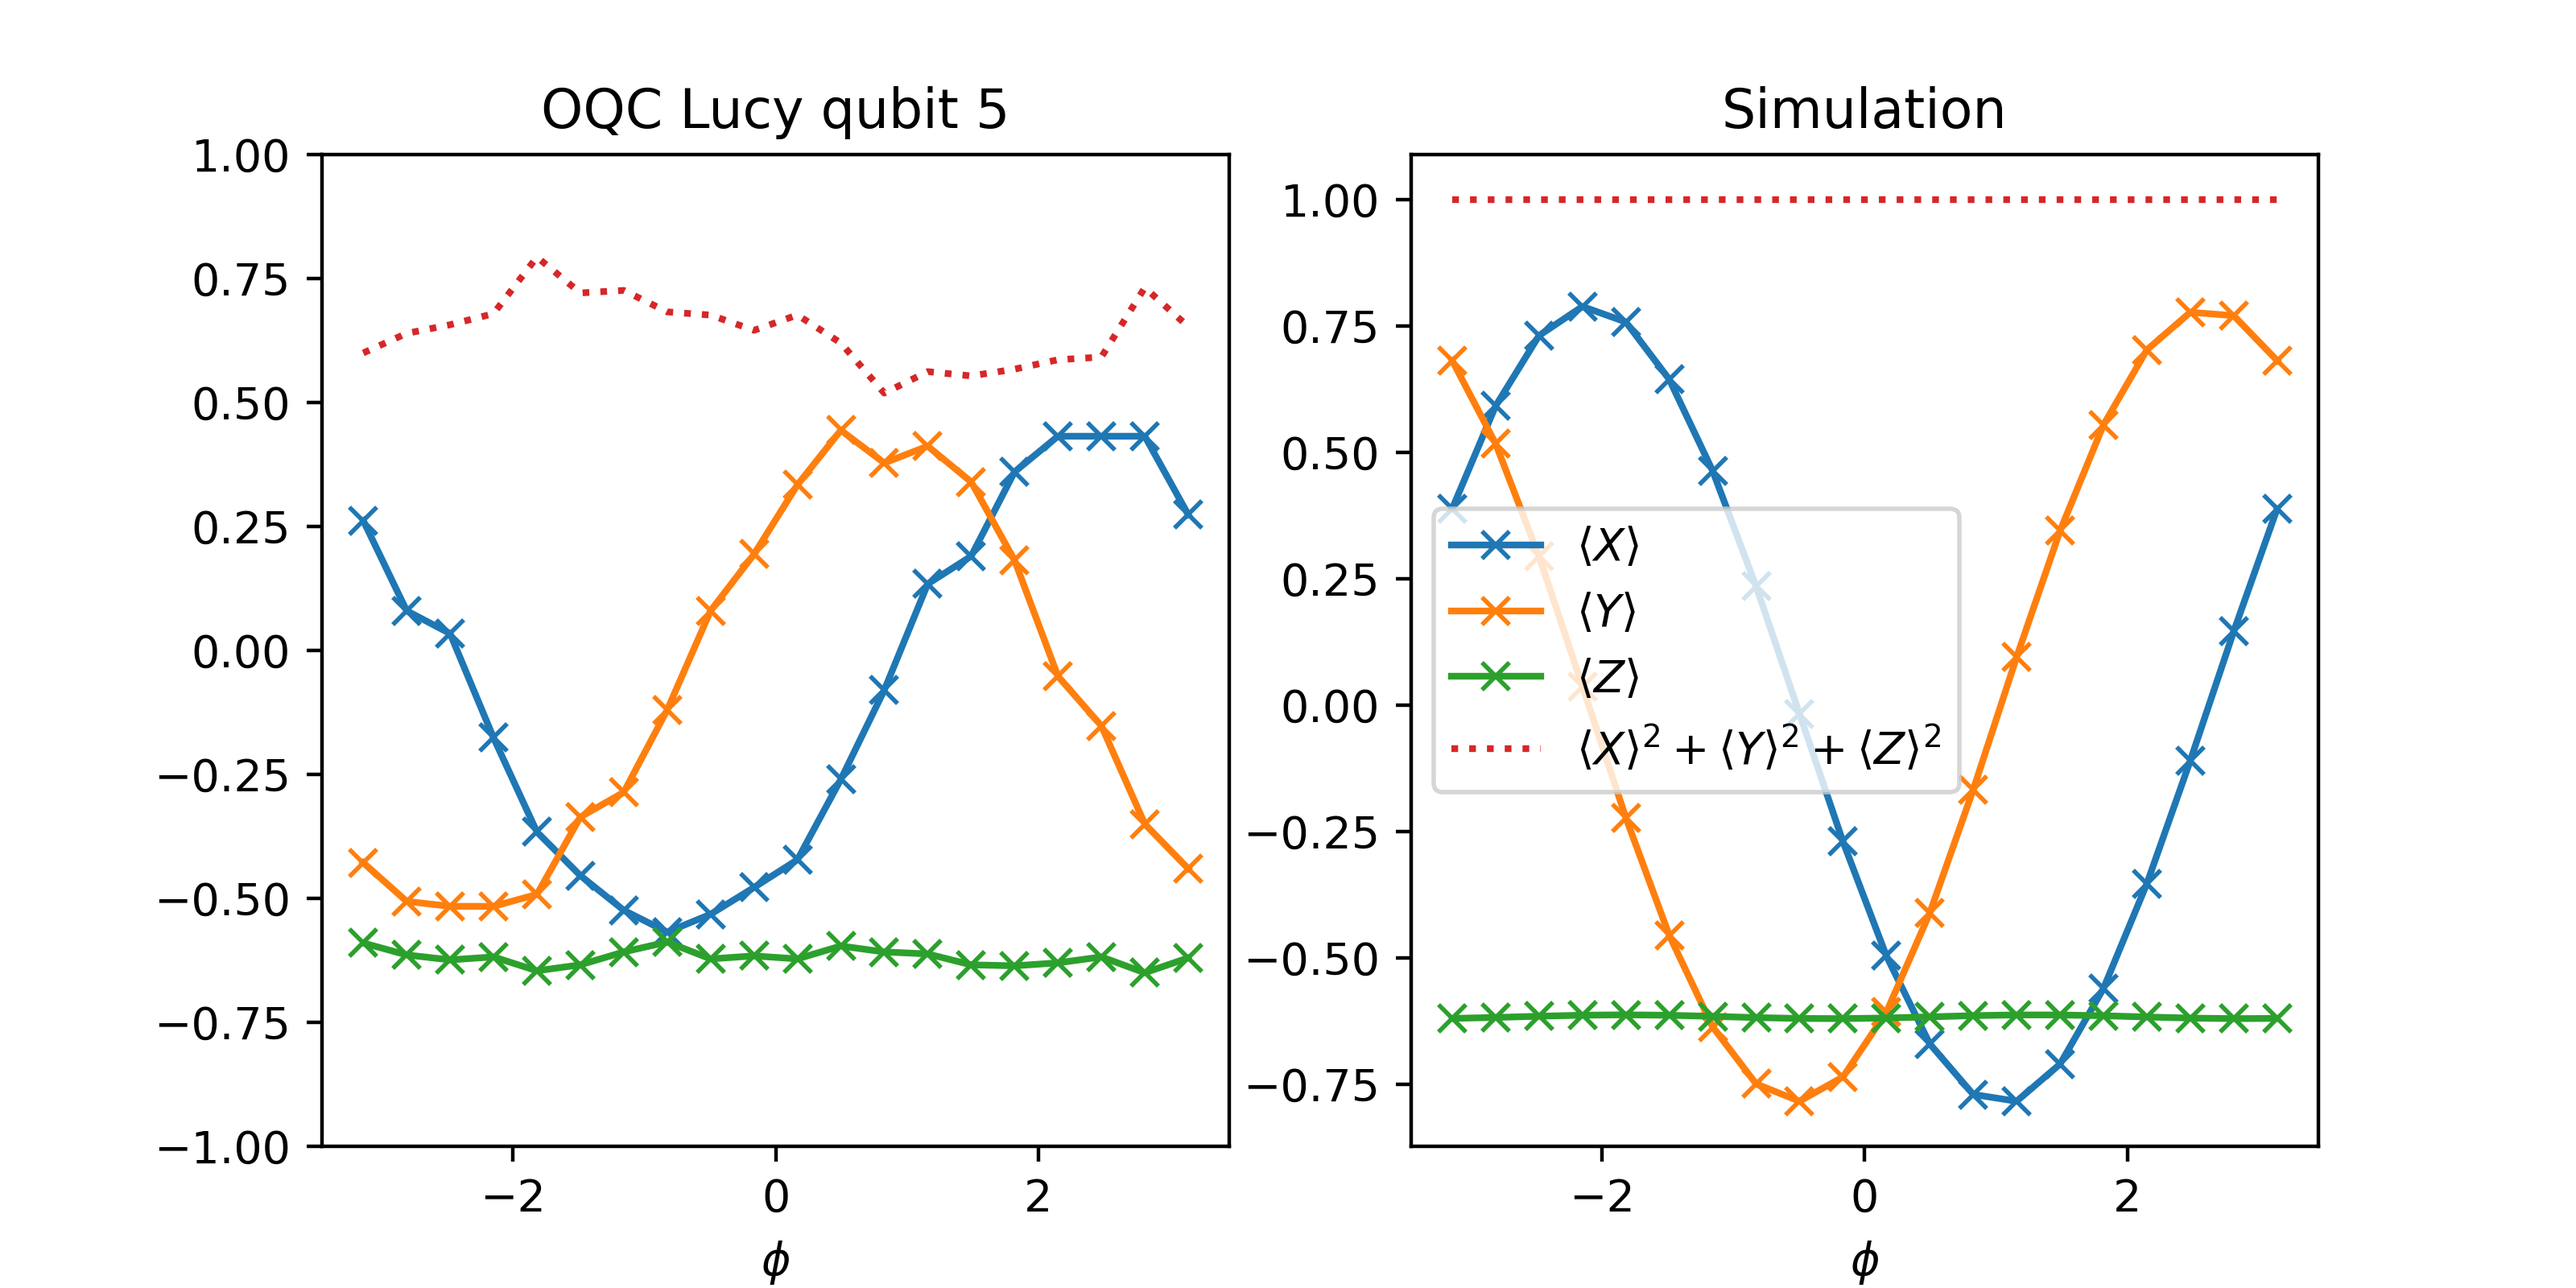
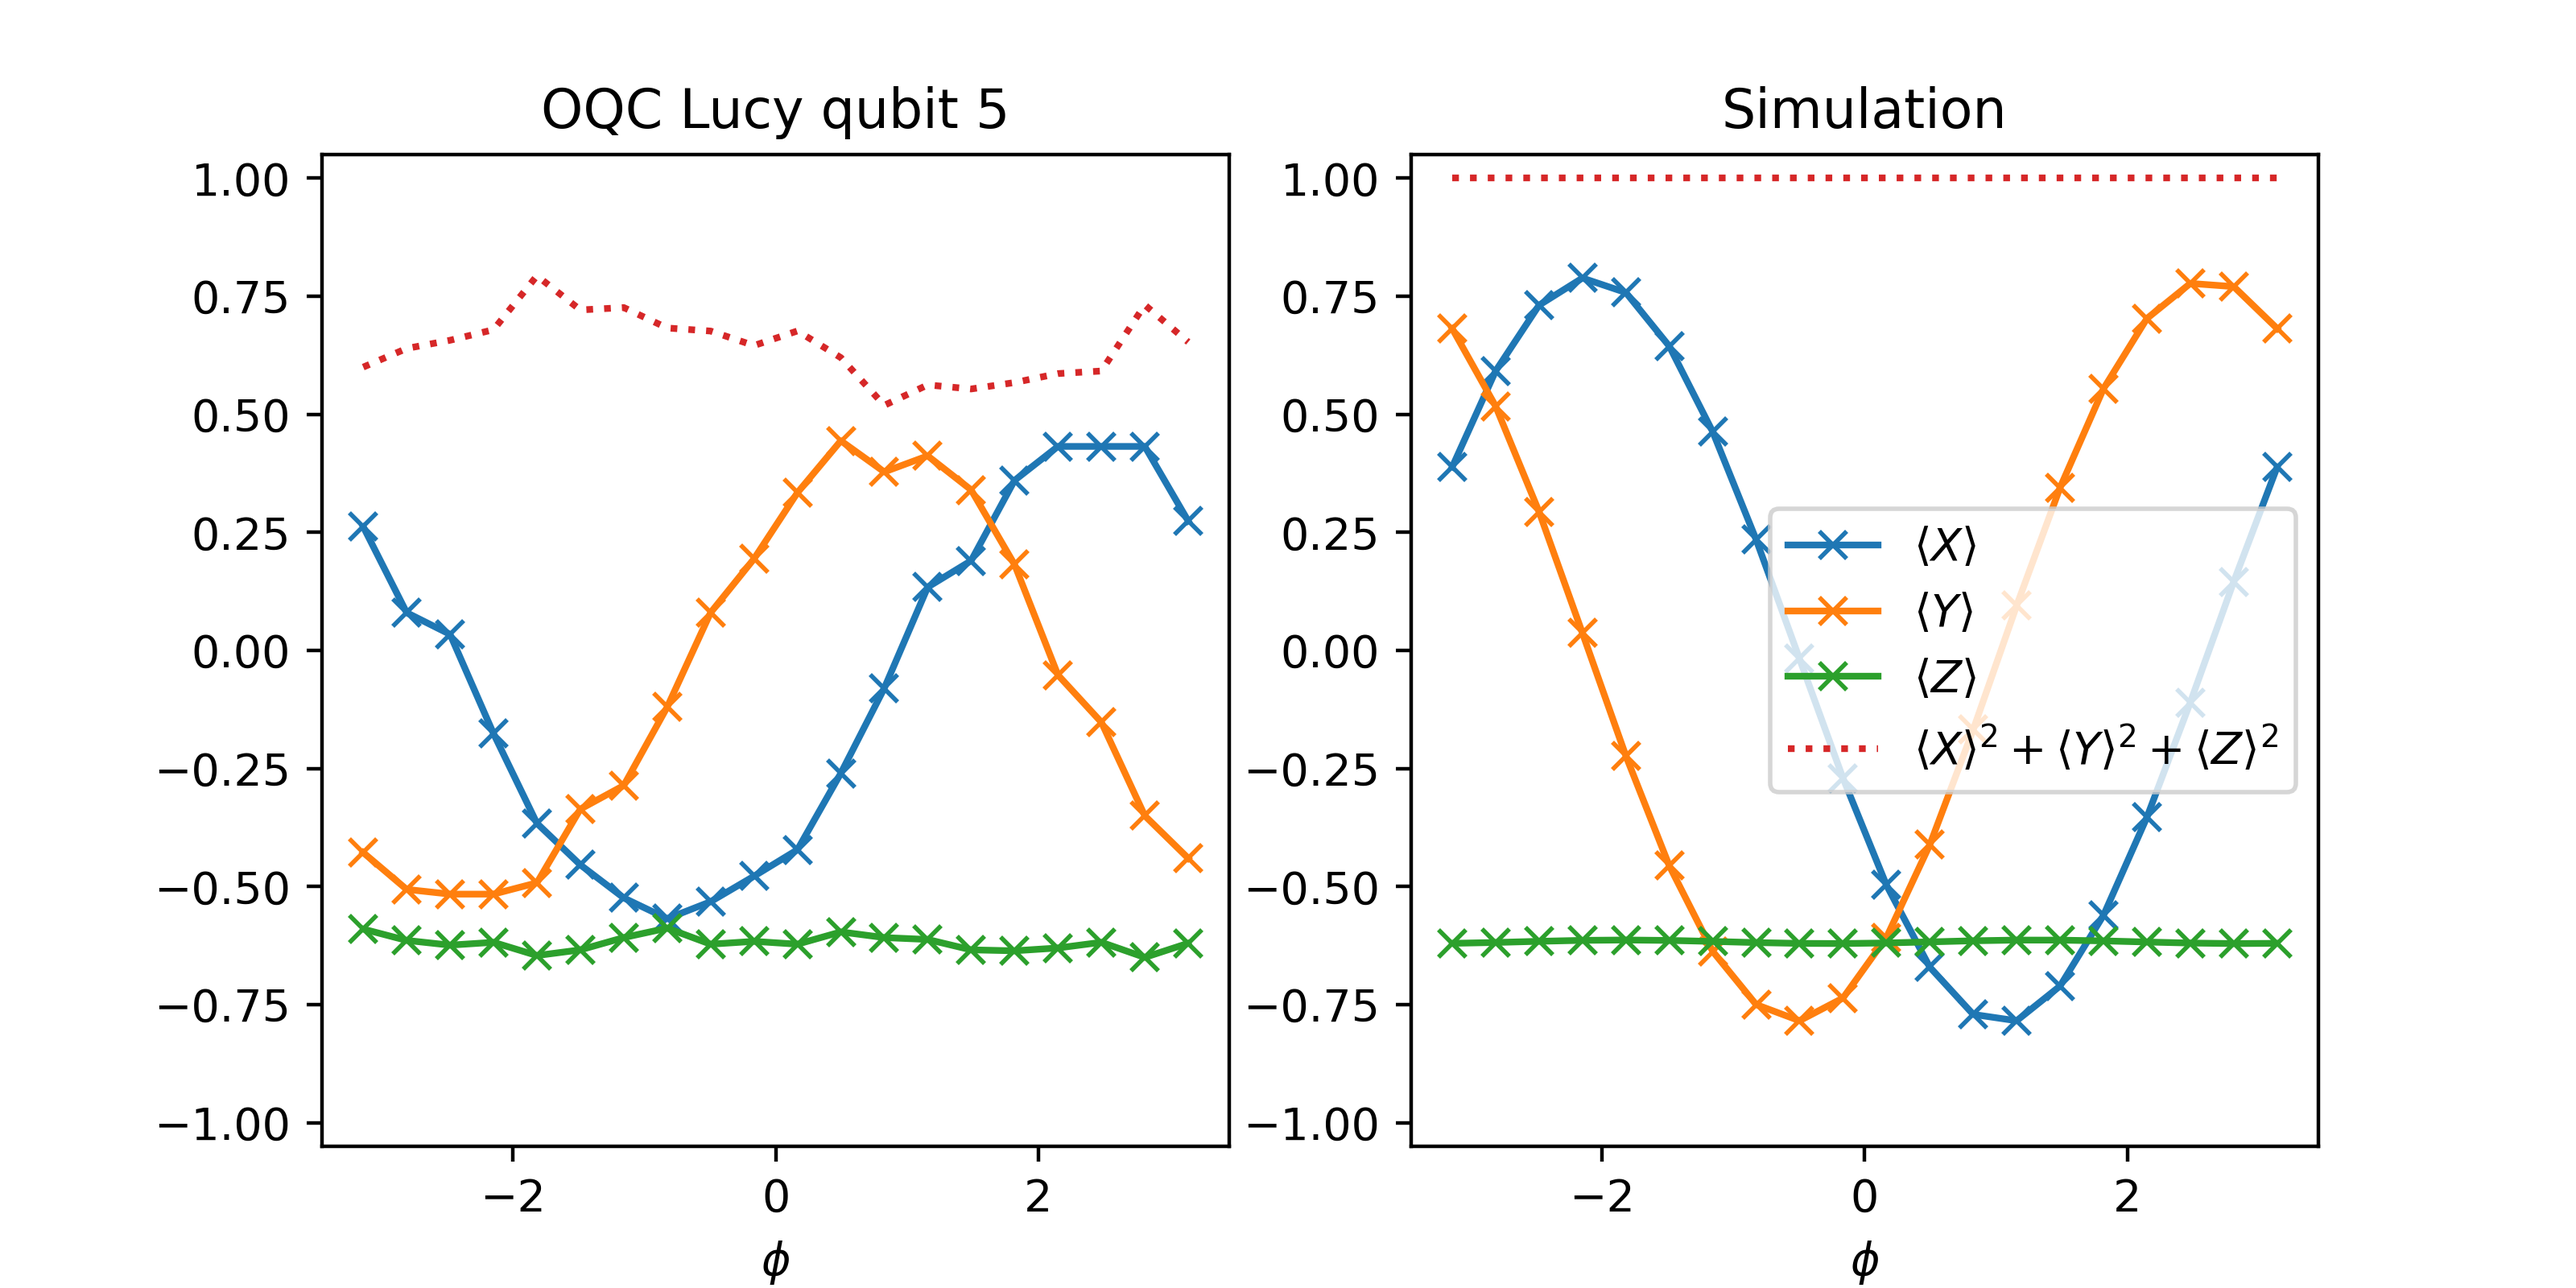
code review

diff --git a/demonstrations/oqc_pulse.py b/demonstrations/oqc_pulse.py
@@ -17,23 +17,19 @@ We now have the possibility to run hardware-level circuits combined with standar
 physical device in ``PennyLane`` via ``AWS Braket`` on OQC's Lucy quantum computer. In this demo, 
 we explain the underlying physical principles of driving transmon qubits and show how to perform custom pulse gates on hardware through PennyLane.
 
-|
-
 .. figure:: ../demonstrations/oqc_pulse/qubit_rotation.png
     :align: center
     :width: 70%
     :alt: Illustration of how single qubit rotations are realized by Z-precession and Rabi oscillation
     :target: javascript:void(0);
 
-|
-
 Introduction
 ============
 
 Pulse level access to quantum computers provides new opportunities to parametrize gates in variational quantum algorithms.
 For a general introduction to differentiable pulse programming, see our `recent demo <tutorial_pulse_programming101>`_.
-Additionally to accessing `neutral atom quantum computers by Quera through PennyLane and aws <ahs_aquila>`_, we now 
-also have the possibility to access OQC's Lucy, a 8-qubit superconducting quantum computer with a ring-like connectivity.
+Additionally to accessing `neutral atom quantum computers by Quera through PennyLane and AWS <ahs_aquila>`_, we now 
+also have the possibility to access _Lucy_ by Oxford Quantum Computing (OQC), a 8-qubit superconducting quantum computer with a ring-like connectivity.
 Through the `PennyLane-Braket plugin <https://amazon-braket-pennylane-plugin-python.readthedocs.io/en/latest/>`_,
 we now have the possibility to design custom pulse gates that control the physical qubits on the lowest hardware level.
 A neat feature of controlling this device is the possibility to combine `digital` gates like :math:`\text{CNOT}, H, R_x, R_y, R_z` with `pulse` gates.
@@ -56,19 +52,20 @@ Transmon Physics
 
 In this section, we are going to give an intuitive intro to the physical principles of controlling superconducting transmon qubits.
 
-Oxford Quantum Circuit's Lucy is a quantum computer with 8 superconducting transmon qubits based on the coaxmon design [#Rahamim]_.
-In order to control a transmon qubit, it is driven by an electromagnetic microwave pulse. This can be modeled by the Hamiltonian
+Oxford Quantum Circuit's Lucy is a quantum computer with 8 superconducting transmon qubits based on the Coaxmon design [#Rahamim]_.
+In order to control a transmon qubit, it is driven by a microwave pulse. This can be modeled by the Hamiltonian
 
 .. math:: H(t) = - \frac{\omega_q}{2} Z_q + \Omega(t) \sin(\nu_q t + \phi) Y_q
 
 of the driven qubit with qubit frequency :math:`\omega_q`, drive amplitude :math:`\Omega(t)`, drive frequency :math:`\nu_q` and phase :math:`\phi`.
+The operators :math:`\{X_q, Y_q, Z_q\}` refer to the single qubit Pauli operators acting on qubit :math:`q`.
 See, for example, reference [#Krantz]_, in particular section IV D, for a good derivation and review.
-The first term leads to a constant precession around the Z axis on the Bloch sphere, whereas the second term introduces
+The first term leads to a constant precession around the Z-axis on the Bloch sphere, whereas the second term introduces
 the so-called Rabi oscillation between :math:`|0\rangle` and :math:`|1\rangle`. 
 
 This can be seen by the following simple simulation,
-where we evolve the state in the Bloch sphere from :math:`|0\rangle` with a constant pulse of :math:`\Omega(t) = 2 \pi \text{GHz}`
-for :math:`1\text{ns}`. We choose :math:`\omega = 5 \times 2\pi \text{GHz}` as the drive and qubit frequency.
+where we evolve the state in the Bloch sphere from :math:`|0\rangle` with a constant pulse of :math:`\Omega(t) = 2 \pi \text{ GHz}`
+for :math:`1 \text{ ns}`. We choose :math:`\omega = 5 \times 2\pi \text{ GHz}` as the drive and qubit frequency.
 """
 import pennylane as qml
 import numpy as np
@@ -156,8 +153,8 @@ ax.legend()
 
 ##############################################################################
 # 
-# We looked at transmon physics in the so-called lab frame. Another common way of understanding transmon physics
-# is done via transforming the drive Hamiltonian to the so-called qubit frame that is rotating with the qubit-frequency.
+# So far, we have looked at transmon physics in the so-called lab frame. Another common way of understanding transmon physics
+# is done via transforming the drive Hamiltonian to the so-called qubit frame that is rotating at the qubit frequency.
 # This is done via the unitary transformation
 # :math:`R = e^{-i \frac{\omega_q}{2}Z_q}` that leads to the transformed Hamiltonian :math:`\tilde{H}(t) = i R R^\dagger + R H R^\dagger`.
 # In the rotating wave approximation (RWA) and on resonance (:math:`\omega_q = \nu_q`), this yields
@@ -167,10 +164,10 @@ ax.legend()
 # This is another way of seeing how setting the phase :math:`\phi` controls the rotation axis of the qubits.
 # For a detailed derivation of the qubit frame Hamiltonian above, we refer to reference [#Krantz]_, section IV, D1 (eq. (79) onwards therein).
 #
-# Rabi oscillation calibration
+# Rabi Oscillation Calibration
 # ============================
 # 
-# For better comparability with classical simulations, we calibrate the attenuation :math:`\nu` between the voltage output
+# For better comparability with classical simulations, we calibrate the attenuation :math:`\xi` between the voltage output
 # that we set on the device, :math:`V_0`, and the actual voltage the superconducting qubit receives, :math:`V_\text{device} = \xi V_0`.
 # The attenuation :math:`\xi` accounts for all losses between the arbitrary waveform generator (AWG) that outputs the signal in
 # the lab at room temperature and all wires that lead to the cooled down chip in a cryostat.
@@ -268,7 +265,7 @@ plt.show()
 #     :target: javascript:void(0);
 # 
 # We see that the oscillation on the real device is significantly slower due to the attenuation.
-# We can estimate it by ratio of the measured Rabi frequency for simulation and device execution.
+# We can estimate this attenuation by the ratio of the measured Rabi frequency for the simulation and device execution.
 
 attenuation = np.abs(coeffs_fit_lucy[1] / coeffs_fit_sim[1])
 print(attenuation)
@@ -323,7 +320,7 @@ plt.show()
 #
 # We now want to experiment with performing X-Y-rotations by setting the phase.
 # For that, we compute expectation values of :math:`\langle X \rangle`, :math:`\langle Y \rangle`, and :math:`\langle Z \rangle`
-# while changing the phase :math:`\phi` at a fixed duration of :math:`15 \text{ns}` and output amplitude of :math:`0.3` (arbitrary unit :math:`\in [0, 1]`).
+# while changing the phase :math:`\phi` at a fixed duration of :math:`15 \text{ ns}` and output amplitude of :math:`0.3` (arbitrary unit :math:`\in [0, 1]`).
 
 def amplitude(p, t):
     return attenuation * p
@@ -359,7 +356,7 @@ ax.plot(x_lucy, y_lucy[:, 2], "x-", label="$\\langle Z \\rangle$")
 ax.plot(x_lucy, np.sum(y_lucy**2, axis=1), ":", label="$\\langle X \\rangle^2 + \\langle Y \\rangle^2 + \\langle Z \\rangle^2$")
 ax.set_xlabel("$\\phi$")
 ax.set_title(f"OQC Lucy qubit {wire}")
-ax.set_ylim((-1, 1))
+ax.set_ylim((-1.05, 1.05))
 
 x_sim = x_lucy
 params_sim = jnp.array([[amp0, phi] for phi in x_sim])
@@ -374,6 +371,7 @@ ax.plot(x_sim, np.sum(y_sim**2, axis=0), ":", label="$\\langle X \\rangle^2 + \\
 ax.set_xlabel("$\\phi$")
 ax.set_title("Simulation")
 ax.legend()
+ax.set_ylim((-1.05, 1.05))
 
 ##############################################################################
 # .. figure:: ../demonstrations/oqc_pulse/calibration2.png
@@ -385,7 +383,7 @@ ax.legend()
 ##############################################################################
 # As expected, we see a constant :math:`\langle Z \rangle` contribution, as changing :math:`\phi` delays the precession around the Z-axis
 # and we land on a fixed latitude. What is changed is the longitude, leading to different rotation axes in the X-Y-plane.
-# The qubit-frame interpretation of this picture is that we simply change the rotation axis by setting different phases, as discussed in 
+# The qubit frame interpretation of this picture is that we simply change the rotation axis by setting different phases, as discussed in 
 # the last paragraph of the transmon physics section above.
 # 
 #
@@ -393,8 +391,8 @@ ax.legend()
 # Conclusion
 # ==========
 #
-# Overall, We have demonstrated the basic working principles of transmon qubit devices and have shown how one can perform such hardware-level manipulations
-# on a physical device in ``PennyLane``. Stay tuned for more content on differentiating pulse circuits natively on hardware in a future demo on ``ODEgen`` [#Kottmann]_.
+# Overall, we have demonstrated the basic working principles of transmon qubit devices and have shown how one can perform such hardware-level manipulations
+# on a physical device in PennyLane. Stay tuned for more content on differentiating pulse circuits natively on hardware in a future demo on ``ODEgen`` [#Kottmann]_.
 #
 #
 #
